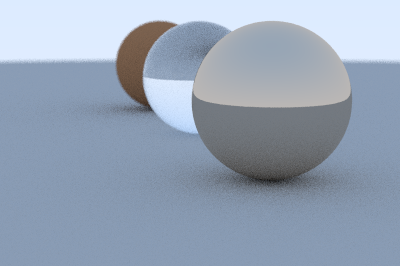
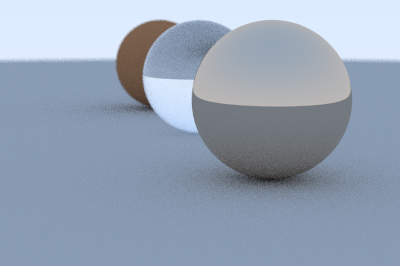
from high left to low right, save the color with row and col

diff --git a/utils/camera.h b/utils/camera.h
@@ -30,7 +30,7 @@ public:
         origin = lookfrom;
         horizontal = focus_dist * viewport_width * u;
         vertical = focus_dist * viewport_height * v;
-        lower_left_corner = origin - horizontal * 0.5 - vertical * 0.5 - focus_dist*w;
+        higher_left_corner = origin - horizontal * 0.5 + vertical * 0.5 - focus_dist*w;
 
         lens_radius = aperture / 2;
     }
@@ -42,13 +42,13 @@ public:
 
         return ray(
                 origin + offset,
-                lower_left_corner + s*horizontal + t*vertical - origin - offset
+                higher_left_corner + s*horizontal - t*vertical - origin - offset
         );
     }
 
 private:
     point3 origin;
-    point3 lower_left_corner;
+    point3 higher_left_corner;
     vec3 horizontal;
     vec3 vertical;
     vec3 u, v, w;

diff --git a/main.cpp b/main.cpp
@@ -90,7 +90,7 @@ int main(){
     camera cam(lookfrom, lookat, vup, 20, aspect_ratio, aperture, dist_to_focus);
 
     Png_Image png(image_width, image_height);
-    for (int row = png.height() - 1; row >= 0; row--) {
+    for (int row = 0; row < png.height(); row++) {
         for (int col = 0; col < png.width(); col++) {
             color pixel_color(0, 0, 0);
             for (int s = 0; s < samples_per_pixel; ++s) {
@@ -99,7 +99,7 @@ int main(){
                 ray r = cam.get_ray(u, v);
                 pixel_color += ray_color(r, world, max_depth);
             }
-            png.saveColorSeq(pixel_color, samples_per_pixel);
+            png.saveColor(pixel_color, row, col, samples_per_pixel);
         }
     }
     png.write("13.randomScene.png");
